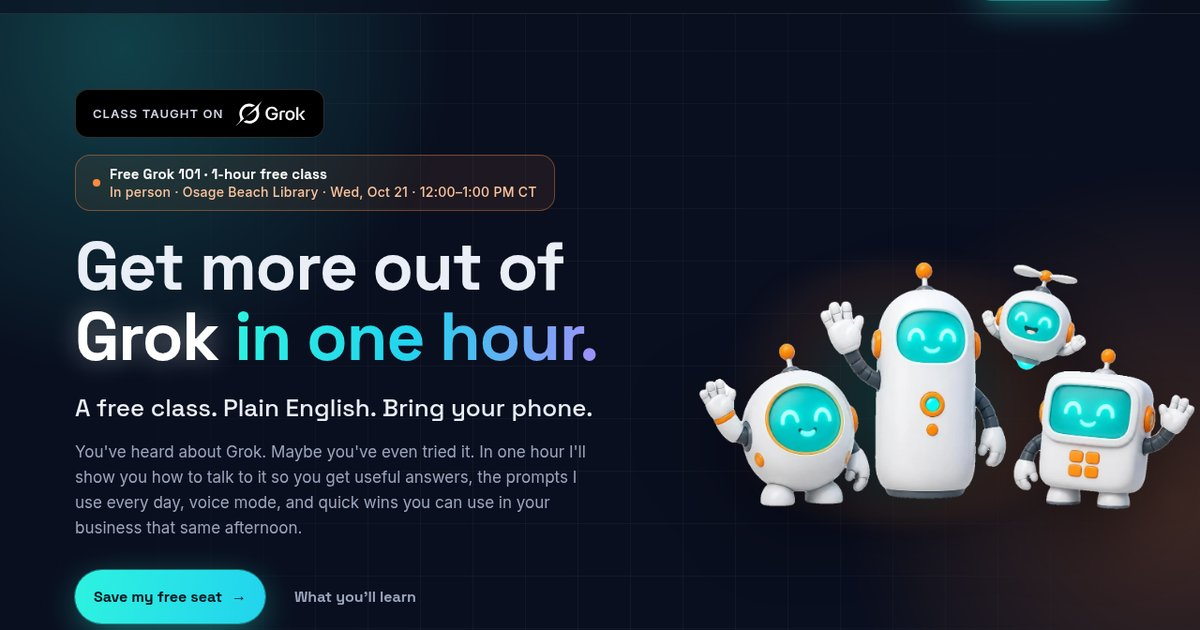
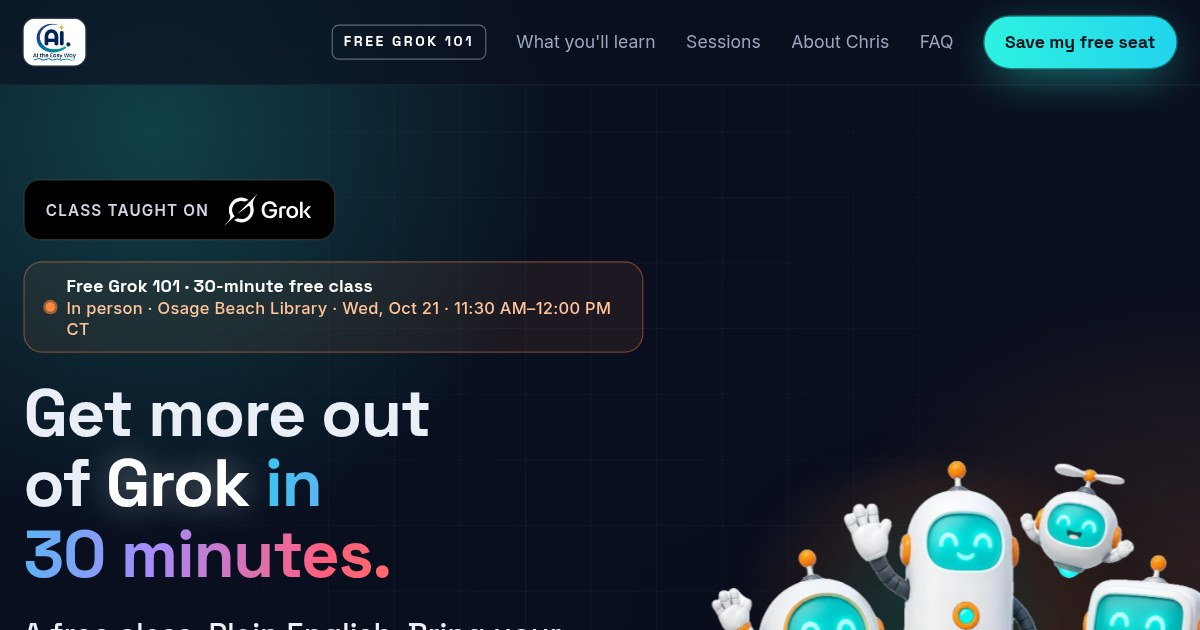
Free class time: Wed Oct 21 11:30 AM-12:00 PM CT (30 min); refresh og image

diff --git a/index.html b/index.html
@@ -7,19 +7,19 @@
 <meta name="viewport" content="width=device-width, initial-scale=1">
 <link rel="canonical" href="http://free.mysihelpers.com/"><!-- switch to https once GitHub issues the cert -->
 <title>Free Grok 101: Get More Out of Grok in One Hour | AI the Easy Way</title>
-<meta name="description" content="A 1-hour free, beginner-friendly class from AI the Easy Way at the Lake of the Ozarks. Learn how to talk to Grok, prompts that work, voice mode and quick wins for your business. In person and online sessions.">
+<meta name="description" content="A 30-minute free, beginner-friendly class from AI the Easy Way at the Lake of the Ozarks. Learn how to talk to Grok, prompts that work, voice mode and quick wins for your business. In person and online sessions.">
 <meta property="og:title" content="Free Grok 101: Get More Out of Grok in One Hour">
-<meta property="og:description" content="A 1-hour free, plain-English class for local business owners and beginners. In person at Osage Beach Library, Wed Oct 21, 12:00 to 1:00 PM CT. Save your seat.">
+<meta property="og:description" content="A 30-minute free, plain-English class for local business owners and beginners. In person at Osage Beach Library, Wed Oct 21, 11:30 AM to 12:00 PM CT. Save your seat.">
 <meta property="og:type" content="website">
 <meta property="og:url" content="http://free.mysihelpers.com/">
 <meta property="og:image" content="http://free.mysihelpers.com/assets/og-image.jpg">
 <meta property="og:image:width" content="1200">
 <meta property="og:image:height" content="630">
-<meta property="og:image:alt" content="Free Grok 101: Get more out of Grok in one hour. In person at Osage Beach Library, Wed Oct 21, 12:00 to 1:00 PM CT.">
+<meta property="og:image:alt" content="Free Grok 101: Get more out of Grok in 30 minutes. In person at Osage Beach Library, Wed Oct 21, 11:30 AM to 12:00 PM CT.">
 <meta property="og:site_name" content="AI the Easy Way">
 <meta name="twitter:card" content="summary_large_image">
 <meta name="twitter:title" content="Free Grok 101: Get More Out of Grok in One Hour">
-<meta name="twitter:description" content="A 1-hour free, plain-English class. In person at Osage Beach Library, Wed Oct 21, 12:00 to 1:00 PM CT. Save your seat.">
+<meta name="twitter:description" content="A 30-minute free, plain-English class. In person at Osage Beach Library, Wed Oct 21, 11:30 AM to 12:00 PM CT. Save your seat.">
 <meta name="twitter:image" content="http://free.mysihelpers.com/assets/og-image.jpg">
 <meta name="theme-color" content="#0a0f1f">
 <link rel="icon" href="favicon.ico" sizes="48x48">
@@ -63,20 +63,20 @@
     <div class="hero-grid">
       <div class="hero-top">
         <div class="built-on"><span>Class taught on</span><img src="assets/grok/Grok_Full_Logomark_Light.svg" alt="Grok" width="110" height="43"></div>
-        <span class="pill"><span class="pulse"></span><span class="pill-txt"><b>Free Grok 101 · <span class="nw">1-hour free class</span></b><span id="hero-when">In person · Osage Beach Library · Wed, Oct 21 · 12:00–1:00 PM CT</span></span></span>
-        <h1>Get more out of <span class="grok-word">Grok</span> <span class="grad-text">in one hour.</span></h1>
+        <span class="pill"><span class="pulse"></span><span class="pill-txt"><b>Free Grok 101 · <span class="nw">30-minute free class</span></b><span id="hero-when">In person · Osage Beach Library · Wed, Oct 21 · 11:30 AM–12:00 PM CT</span></span></span>
+        <h1>Get more out of <span class="grok-word">Grok</span> <span class="grad-text">in 30 minutes.</span></h1>
       </div>
       <div class="hero-art" aria-hidden="true">
         <picture><source srcset="assets/helpers/helper-hero-group.webp" type="image/webp"><img src="assets/helpers/helper-hero-group.png" width="1400" height="747" alt=""></picture>
       </div>
       <div class="hero-body">
         <p class="sub">A free class. Plain English. Bring your phone.</p>
-        <p class="lede">You've heard about Grok. Maybe you've even tried it. In one hour I'll show you how to talk to it so you get useful answers, the prompts I use every day, voice mode, and quick wins you can use in your business that same afternoon.</p>
+        <p class="lede">You've heard about Grok. Maybe you've even tried it. In 30 minutes I'll show you how to talk to it so you get useful answers, the prompts I use every day, voice mode, and quick wins you can use in your business that same afternoon.</p>
         <div class="cta-row">
           <a class="btn btn-primary" href="#register">Save my free seat <span class="arrow" aria-hidden="true">→</span></a>
           <a class="btn btn-ghost btn-textlink" href="#learn">What you'll learn</a>
         </div>
-        <p class="tiny">1-hour free class · Beginners welcome · In person at the Lake, with online (Zoom) sessions coming too. 🌅</p>
+        <p class="tiny">30-minute free class · Beginners welcome · In person at the Lake, with online (Zoom) sessions coming too. 🌅</p>
       </div>
     </div>
 
@@ -93,7 +93,7 @@
   <div class="wrap">
     <span class="eyebrow reveal">What you'll learn</span>
     <h2 class="reveal">Stop guessing. <span class="grad-text">Start getting answers.</span></h2>
-    <p class="section-sub reveal">Most people type one line into Grok, get a so-so answer, and give up. Here's what we fix in one hour.</p>
+    <p class="section-sub reveal">Most people type one line into Grok, get a so-so answer, and give up. Here's what we fix in 30 minutes.</p>
     <div class="grid g3 sys-grid">
       <div class="card reveal"><div class="helper-ic"><picture><source srcset="assets/helpers/helper-chief.webp" type="image/webp"><img src="assets/helpers/helper-chief.png" alt=""></picture></div><h3>How to talk to Grok</h3><p>Give it the background a smart new hire would need, and the answers get a whole lot better.</p></div>
       <div class="card warm reveal"><div class="helper-ic"><picture><source srcset="assets/helpers/helper-teamlog.webp" type="image/webp"><img src="assets/helpers/helper-teamlog.png" alt=""></picture></div><h3>Prompts that work</h3><p>A simple fill-in-the-blank prompt recipe, plus a few of my everyday prompts you can copy.</p></div>
@@ -174,7 +174,7 @@
     <h2 class="reveal">In person or online. <span class="grad-text">Pick what works.</span></h2>
     <p class="section-sub reveal">Same free class either way. The first one is in person at the Lake. Online (Zoom) sessions are on the way.</p>
     <div class="sess-grid" id="sess-grid">
-      <div class="card sess"><span class="fmt">📍 In person</span><div class="when">Wed, Oct 21 · 12:00–1:00 PM CT</div><h3>In person · Osage Beach Library</h3><p>Osage Beach Library, Osage Beach, MO</p></div>
+      <div class="card sess"><span class="fmt">📍 In person</span><div class="when">Wed, Oct 21 · 11:30 AM–12:00 PM CT</div><h3>In person · Osage Beach Library</h3><p>Osage Beach Library, Osage Beach, MO</p></div>
       <div class="card sess online soon"><span class="fmt">💻 Online (Zoom)</span><div class="when">Coming soon</div><h3>Online sessions</h3><p>Pick "Online" when you register and you'll hear first when dates are set.</p></div>
     </div>
   </div>
@@ -184,7 +184,7 @@
   <div class="wrap">
     <span class="eyebrow o reveal">Who it's for</span>
     <h2 class="reveal">Busy people at the Lake <span class="grad-text">(and beyond)</span>.</h2>
-    <p class="section-sub reveal">If you've thought "I should be using AI" but never had the time to figure it out, this is your hour.</p>
+    <p class="section-sub reveal">If you've thought "I should be using AI" but never had the time to figure it out, this is your half hour.</p>
     <div class="grid g3">
       <div class="card who-card reveal"><span class="tag">Owners</span><h3>Local business owners</h3><p>Shops, restaurants, marinas, contractors, realtors. Anyone who wants back an hour or two a week.</p></div>
       <div class="card who-card reveal"><span class="tag">New to AI</span><h3>Total beginners</h3><p>Never used Grok? Perfect. We start at "open the app" and go from there. No dumb questions.</p></div>
@@ -270,10 +270,10 @@
     <div><span class="eyebrow reveal">FAQ</span>
     <h2 class="reveal">Quick answers.</h2><p class="section-sub reveal" style="margin-bottom:0">Short version: just show up. 😎</p></div>
     <div class="faq">
-      <details class="reveal" open><summary>Is it really free?<span class="plus">+</span></summary><div class="ans"><strong>Yes.</strong> It's a 1-hour free class. No card, no catch. At the end I'll briefly mention my hands-on paid class for anyone who wants AI helpers set up for them. Totally optional.</div></details>
+      <details class="reveal" open><summary>Is it really free?<span class="plus">+</span></summary><div class="ans"><strong>Yes.</strong> It's a 30-minute free class. No card, no catch. At the end I'll briefly mention my hands-on paid class for anyone who wants AI helpers set up for them. Totally optional.</div></details>
       <details class="reveal" open><summary>What do I need to bring?<span class="plus">+</span></summary><div class="ans">A <strong>phone or laptop with Grok</strong>. Install the Grok app (iPhone or Android) or open grok.com, and sign in. A <strong>free account</strong> is fine for what we cover.</div></details>
       <details class="reveal"><summary>Do I need to be techie?<span class="plus">+</span></summary><div class="ans"><strong>Nope.</strong> If you can send a text, you're good. We go step by step.</div></details>
-      <details class="reveal"><summary>In person or online?<span class="plus">+</span></summary><div class="ans">Both. The first session is <strong>in person at Osage Beach Library, Wed, Oct 21, 12:00 to 1:00 PM CT</strong>. Online (Zoom) sessions are coming. Pick the one you want when you register, and Zoom folks get the link by email.</div></details>
+      <details class="reveal"><summary>In person or online?<span class="plus">+</span></summary><div class="ans">Both. The first session is <strong>in person at Osage Beach Library, Wed, Oct 21, 11:30 AM to 12:00 PM CT</strong>. Online (Zoom) sessions are coming. Pick the one you want when you register, and Zoom folks get the link by email.</div></details>
       <details class="reveal"><summary>Is this an official xAI class?<span class="plus">+</span></summary><div class="ans">No. It's an independent class from AI the Easy Way that teaches you to use Grok. Not affiliated with or endorsed by xAI.</div></details>
       <details class="reveal"><summary>How is this different from the $97 class?<span class="plus">+</span></summary><div class="ans">This free class is about <strong>using Grok</strong> well. The paid <a data-sales href="http://mysihelpers.com/" style="color:var(--teal)">hands-on AI Helpers class ($97)</a> is where we set up your own Grok Bot helpers together, for your business. Totally optional.</div></details>
     </div>
@@ -305,7 +305,7 @@
 <section class="final">
   <div class="wrap">
     <div class="final-box reveal">
-      <span class="pill" style="margin-bottom:22px"><span class="pulse"></span><span class="pill-txt"><b>Free Grok 101 · <span class="nw">1-hour free class</span></b><span class="final-when">In person · Osage Beach Library · Wed, Oct 21 · 12:00–1:00 PM CT</span></span></span>
+      <span class="pill" style="margin-bottom:22px"><span class="pulse"></span><span class="pill-txt"><b>Free Grok 101 · <span class="nw">30-minute free class</span></b><span class="final-when">In person · Osage Beach Library · Wed, Oct 21 · 11:30 AM–12:00 PM CT</span></span></span>
       <h2>Ready to get more out of <span class="grad-text">Grok?</span></h2>
       <p>Free, friendly, and plain English. Grab a seat and bring your phone.</p>
       <div class="cta-row">

diff --git a/thanks.html b/thanks.html
@@ -38,7 +38,7 @@
     <span class="eyebrow" style="margin-top:10px">Free Grok 101</span>
     <h1>You're <span class="grad-text">registered!</span> 🎉</h1>
     <p class="lede">Your seat is saved. Watch your inbox for class details and a reminder before we start.</p>
-    <div class="ty-sess" id="ty-sess"><b id="ty-when">Wed, Oct 21 · 12:00–1:00 PM CT</b><span id="ty-where">In person · Osage Beach Library, Osage Beach, MO</span></div>
+    <div class="ty-sess" id="ty-sess"><b id="ty-when">Wed, Oct 21 · 11:30 AM–12:00 PM CT</b><span id="ty-where">In person · Osage Beach Library, Osage Beach, MO</span></div>
     <div class="cal-row" id="cal-row">
       <span class="badge" id="cal-soon">📅 Add-to-calendar link coming once the date is set. We'll email it to you.</span>
     </div>

diff --git a/config.js b/config.js
@@ -16,8 +16,8 @@ const SESSIONS = [
     id: "osage-1",
     format: "in-person",
     title: "In person · Osage Beach Library",
-    date: "2026-10-21T12:00:00-05:00", // Wed Oct 21, 12:00 PM CT (CDT)
-    minutes: 60,                       // 1-hour free class: 12:00 to 1:00 PM CT
+    date: "2026-10-21T11:30:00-05:00", // Wed Oct 21, 11:30 AM CT (CDT)
+    minutes: 30,                       // 30-minute free class: 11:30 AM to 12:00 PM CT
     place: "Osage Beach Library, Osage Beach, MO"
   }
   // ,{
